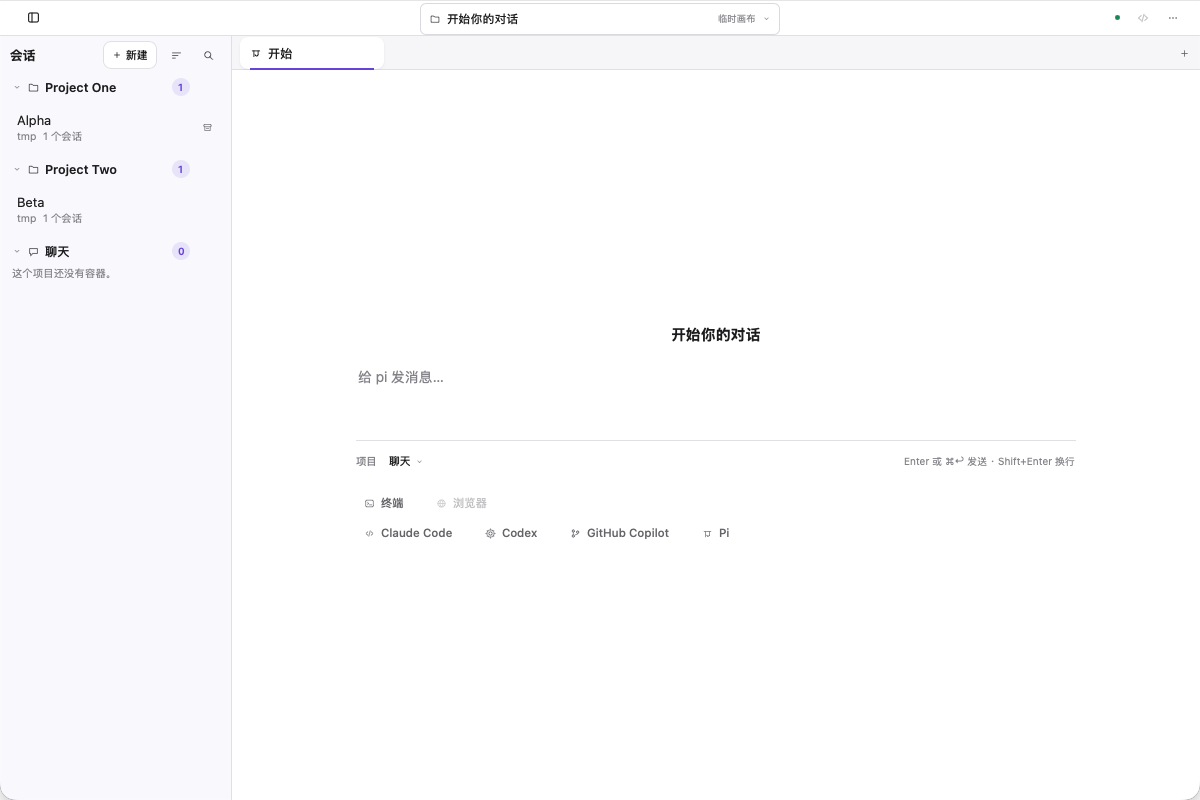
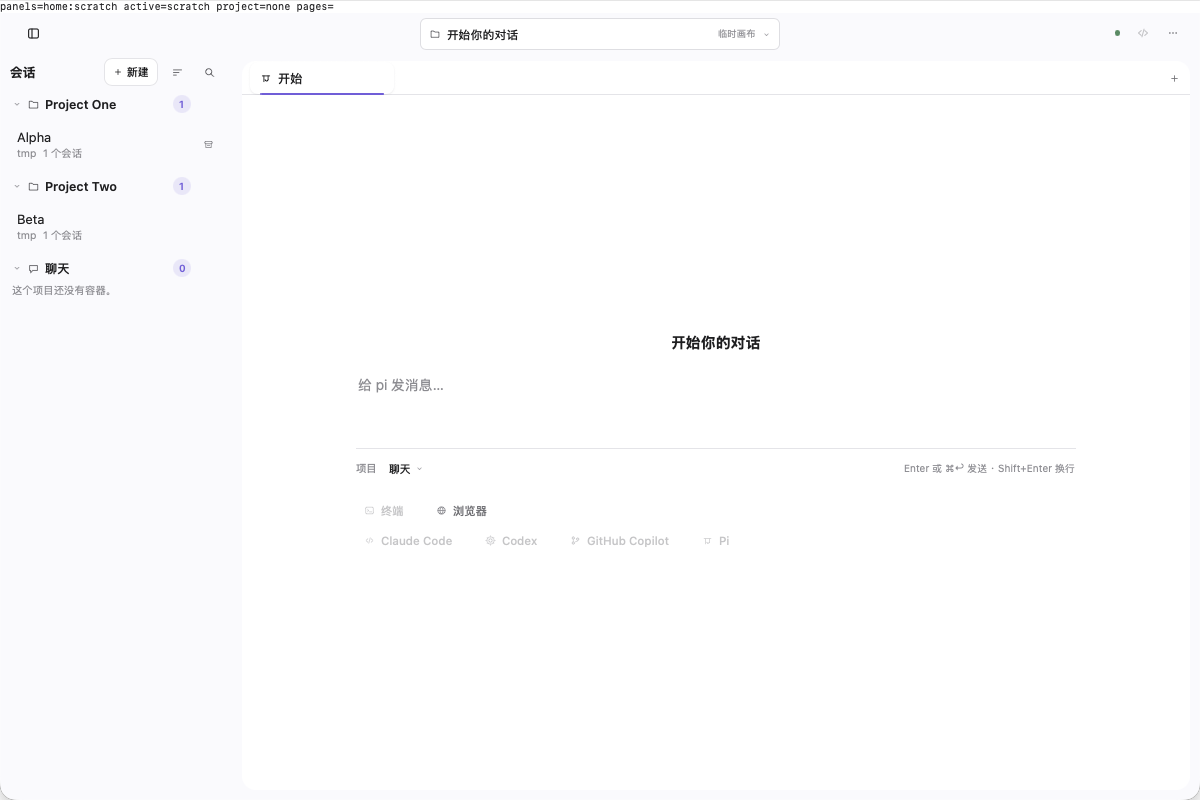
feat(ui): the shell is one layer with a white content card
The window drew three independent bars, each with its own background and a
divider between them. It is now one `sidebar`-colored layer: a 40pt
titlebar with no divider, a sidebar without its right border, and the
content as a white card — radius 14, clipped corners, 8–10pt of the window
showing on all sides — whose tab bar merges into the card and whose
composer sits inside it (24 left/right, 16 below). The `+` overlay now
measures the card, so its geometry ignores the margins.

diff --git a/shell.tsx b/shell.tsx
@@ -113,7 +113,7 @@ const PHASE_TINT: Record<EnginePhase, string> = {
 };
 
 /** The titlebar's height: compact, with the traffic lights still centered. */
-const TITLEBAR_HEIGHT = 36;
+const TITLEBAR_HEIGHT = 40;
 /** The picker trigger and its dropdown share this width (Steer's 360). */
 const PICKER_WIDTH = 360;
 /** The picker is the titlebar's main control, so it nearly fills the row. */
@@ -444,7 +444,7 @@ function SearchSection(props: { label: string; count: number }) {
 /** The sidebar: header actions, the filter, and project → container. */
 function Sidebar() {
   return (
-    <View class="bg-sidebar border-r border-line" style={{ width: 232, flexShrink: 0 }}>
+    <View class="bg-sidebar" style={{ width: 232, flexShrink: 0 }}>
       <View style={{ flexDirection: "row", alignItems: "center", gap: 6, paddingHorizontal: 10, paddingTop: 8, paddingBottom: 6, height: 36 }}>
         <Text style={{ fontSize: 13, fontWeight: "700", color: token("foreground"), flexShrink: 0 }}>{t(K.sidebar.title)}</Text>
         <View style={{ flex: 1 }} />
@@ -750,8 +750,9 @@ function TitleBar() {
     else if (result.kind === "failed") note(t(K.titlebar.openFailed, { error: result.error }));
   };
   return (
+    // Same material as the sidebar: the window is one layer, no divider.
     <View
-      class="flex-row items-center border-b border-line bg-background"
+      class="flex-row items-center"
       style={{ height: TITLEBAR_HEIGHT, flexShrink: 0 }}
       desktop={{ windowDrag: true }}
     >
@@ -877,10 +878,25 @@ function terminalPanels(): Array<{ id: string; closable: boolean }> {
 function Canvas() {
   const size = signal({ width: 0, height: 0 });
   const measured = () => size();
+  // The card is the content's only container (DESIGN §3.1): everything the
+  // canvas draws — tab bars, panels, the composer — lives inside it, and
+  // its corners clip. The `+` overlay measures the card, so its geometry
+  // stays the DockArea's own.
   return (
     <View
-      class="flex-1 bg-background"
-      style={{ flexDirection: "column", minWidth: 0, minHeight: 0, position: "relative" }}
+      class="flex-1 overflow-hidden bg-card"
+      style={{
+        flexDirection: "column",
+        minWidth: 0,
+        minHeight: 0,
+        position: "relative",
+        borderRadius: 14,
+        // 8–10pt of the window's `sidebar` showing on all sides (DESIGN §3).
+        marginTop: 8,
+        marginRight: 10,
+        marginBottom: 10,
+        marginLeft: 10,
+      }}
       onLayout={({ bounds }) => {
         const { width, height } = bounds.size;
         if (measured().width !== width || measured().height !== height) size.set({ width, height });
@@ -895,7 +911,7 @@ function Canvas() {
         onZoomChange={({ panel }) => setZoom(panel)}
         onPanelActiveChange={({ panel, active }) => onPanelActive(panel, active)}
         groupClass="flex-1 bg-background overflow-hidden"
-        tabBarClass="flex-row items-end gap-0.5 border-b border-line bg-inset px-2"
+        tabBarClass="flex-row items-end gap-0.5 border-b border-line bg-card px-2"
         // The right strip is the `+`'s: a tab never ends under the overlay.
         tabBarStyle={{ height: 34, paddingRight: 30 }}
         tabClass="group focus-visible:outline-2 focus-visible:outline-ring focus-visible:outline-offset-[-1px] active:opacity-80"
@@ -949,7 +965,7 @@ function Canvas() {
         renderEmpty={() => (
           // A canvas with no sheet: the Hero is one click away, and it is a
           // sheet like any other (closing it leaves this state).
-          <View class="flex-1 items-center justify-center gap-2 bg-background">
+          <View class="flex-1 items-center justify-center gap-2 bg-card">
             <Text class="text-sm font-semibold text-foreground">{t(K.canvas.emptyTitle)}</Text>
             <Text class="text-xs text-muted-foreground">{t(K.canvas.emptyNote)}</Text>
             <View
@@ -987,7 +1003,9 @@ export function Workbench() {
   // a project row's `+` reach the same canvas.
   keymap.bind("mod+n", () => openHero(null));
   return (
-    <View class="flex-1 bg-background" style={{ flexDirection: "column", minHeight: 0 }}>
+    // S3's one-layer shell: the whole window is `sidebar`; the content is
+    // the card the Canvas draws (DESIGN §3).
+    <View class="flex-1 bg-sidebar" style={{ flexDirection: "column", minHeight: 0 }}>
       <TitleBar />
       <View style={{ flex: 1, flexDirection: "row", minHeight: 0 }}>
         <If when={sidebarVisible()}>

diff --git a/chat-view.tsx b/chat-view.tsx
@@ -234,7 +234,7 @@ function Hero(props: { id: string }) {
     <View
       testID="session-hero"
       class="flex-1 items-center justify-center bg-background"
-      style={{ paddingHorizontal: 24, paddingBottom: 24 }}
+      style={{ paddingHorizontal: 24, paddingBottom: 16 }}
     >
       <View style={{ width: "100%", maxWidth: 720, gap: 20 }}>
         <Text class="text-[16px] font-black text-foreground" style={{ textAlign: "center" }}>

diff --git a/docs/decisions.md b/docs/decisions.md
@@ -142,9 +142,10 @@
 | Q85 | 容器标题（S2 细则） | 标题 = **存活的最早创建 sheet** 的 `title()`（`sheetOrder` 记创建序，`noteSheetOpened` 在打开处记账、`setLayout` 只剪枝、`activateCanvas` 播种；不持久化）。session=会话名，**未命名的新会话不参与命名**（id 前缀撞名）；terminal=OSC 标题；webview=页面 title；Hero 不参与；无可命名 sheet 时回退 captain 名/终端标题/目录。`containerTitle` 移入 `titles.ts`（sheet 注册表在容器 store 之上） | `containers.ts`、`titles.ts`、`dock.ts`；arch §4.3；evidence/s21-5-container-title.md |
 | Q86 | 语言跟随系统 | 顶栏语言按钮删除（连同 `toggleShellLocale` 与 `app.titlebar.language` 键）；`App` 首帧前 `followSystemLocale()` 读 nsh 的 `locale()`，`zh* → zh-CN` 其余 → `en`（Q71）；运行中不跟随，重启生效。测试：映射单测 + `setLocale` 扮演系统的两条 fixture UI 测试；打开真 App 的用例用 `copy(zh,en)` 断言当前文案（`copy.ts` 读同一个系统 locale），fixture 挂载的用例仍是 zh-CN 模块默认 | `i18n.ts`、`App.tsx`、`shell.tsx`、`copy.ts`、`fixtures/locale-*.tsx`；evidence/s21-6-system-locale.md |
 | Q87 | 无 sheet 自动归档的路径 | 每个 tab 由 shell 画自己的 ×（`tab-close-{panel}`，最后一个也可关——路径可达的前提）；`setLayout` 发现容器画布 `sheetCount === 0` 时自动 `archiveContainer(id)`（切到引擎给的下一个容器或 scratch、结束终端/LSP 都在归档里）；侧栏退场用 `LayoutAnimation.configureNext(create(180))`（nsh style 不支持 height 过渡，原生删除动画播放行淡出与其余行上移）。external 容器进程退出即归档 | `shell.tsx`、`containers.ts`；arch §5.4、DESIGN §3.8；evidence/s21-7-auto-archive.md |
+| Q88 | S3 外壳的几何落地 | Workbench 根与顶栏、侧栏同为 `sidebar`（一层）；顶栏 40pt 无分隔线；侧栏 232 无右边框；内容卡片 `bg-card` radius 14 `overflow hidden`，四周 8–10pt（上 8 其余 10）；卡内页签条 `bg-card` + 底部 hairline（活动页签靠 shadowCard + primary 下划线）；composer 卡内左右 24 底部 16。`TabBarPlus` 测量移到卡片，`+` 几何不受边距影响 | `shell.tsx`、`chat-view.tsx`；DESIGN §3/§3.1；evidence/s22-8-shell.md |
 
 ## 决策编号说明
 
-- Q1–Q87 覆盖全部已讨论的问题，**无未决项**。曾悬空的横切面已在 architecture 落成决策：扩展宿主契约与 project trust（§4.5）、引擎监督与重连（§3.3/§5.4，M2）、文件读写归属（Q56/§3.6 的 `zu/fs`）、git 执行与根/路径边界（Q58/§3.6 的 `zu/git`）、协议版本与幂等（§3.3）、归档可达性（Q34）、模型选择入口（§3.5 的写回规则）、i18n 键表（M2）、浏览器的能力/链接策略与非可见降级（Q61/Q62/§4.3）、LSP 的传输/全文同步/语言映射（Q64/§3.6）、单实例锁与关窗/托盘/通知策略（Q65/Q66/§4.6）、更新源缺失时的诚实状态与发布配置（Q67/§3.7）、模型注册表的归属与「无模型」的表达（Q81）、容器内终端资源与 Pi TUI（Q82）、scratch 的页面归属与铸容器语义（Q83）、动作可用性矩阵（Q84）、容器标题的 S2 细则（Q85）、语言跟随系统（Q86）、无 sheet 自动归档的路径（Q87）。
+- Q1–Q88 覆盖全部已讨论的问题，**无未决项**。曾悬空的横切面已在 architecture 落成决策：扩展宿主契约与 project trust（§4.5）、引擎监督与重连（§3.3/§5.4，M2）、文件读写归属（Q56/§3.6 的 `zu/fs`）、git 执行与根/路径边界（Q58/§3.6 的 `zu/git`）、协议版本与幂等（§3.3）、归档可达性（Q34）、模型选择入口（§3.5 的写回规则）、i18n 键表（M2）、浏览器的能力/链接策略与非可见降级（Q61/Q62/§4.3）、LSP 的传输/全文同步/语言映射（Q64/§3.6）、单实例锁与关窗/托盘/通知策略（Q65/Q66/§4.6）、更新源缺失时的诚实状态与发布配置（Q67/§3.7）、模型注册表的归属与「无模型」的表达（Q81）、容器内终端资源与 Pi TUI（Q82）、scratch 的页面归属与铸容器语义（Q83）、动作可用性矩阵（Q84）、容器标题的 S2 细则（Q85）、语言跟随系统（Q86）、无 sheet 自动归档的路径（Q87）、S3 外壳的几何落地（Q88）。
 - 原 engine/ui/domain 三份文档里的 E/U 编号已废弃，统一并入本表。
 - 已完成的和下一批工作见 [plan.md](plan.md)；条件性里程碑（M-tty / M-arch / M-web）的触发条件也记在那里。

diff --git a/docs/plan.md b/docs/plan.md
@@ -14,8 +14,8 @@
 [evidence/s21-5-container-title.md](evidence/s21-5-container-title.md)、
 [evidence/s21-6-system-locale.md](evidence/s21-6-system-locale.md)、
 [evidence/s21-7-auto-archive.md](evidence/s21-7-auto-archive.md) 与 `docs/evidence/ui-s2-*.png`。
-**下一个动作是 §2.2 的第 8 项（一体化外壳 S3）**（§2.1 全部 1–7 项与 F1–F3 已完成，证据
-[evidence/s211-f2f3-container-terminals.md](evidence/s211-f2f3-container-terminals.md)、[evidence/s21-3-scratch.md](evidence/s21-3-scratch.md)、[evidence/s21-4-action-matrix.md](evidence/s21-4-action-matrix.md)、[evidence/s21-5-container-title.md](evidence/s21-5-container-title.md)、[evidence/s21-6-system-locale.md](evidence/s21-6-system-locale.md)、[evidence/s21-7-auto-archive.md](evidence/s21-7-auto-archive.md)）。
+**下一个动作是 §2.2 的第 9 项（侧栏可拖拽）**（第 8 项已完成，证据
+[evidence/s211-f2f3-container-terminals.md](evidence/s211-f2f3-container-terminals.md)、[evidence/s21-3-scratch.md](evidence/s21-3-scratch.md)、[evidence/s21-4-action-matrix.md](evidence/s21-4-action-matrix.md)、[evidence/s21-5-container-title.md](evidence/s21-5-container-title.md)、[evidence/s21-6-system-locale.md](evidence/s21-6-system-locale.md)、[evidence/s21-7-auto-archive.md](evidence/s21-7-auto-archive.md)、[evidence/s22-8-shell.md](evidence/s22-8-shell.md)）。
 开工前读：本文件 §2 → [architecture.md](architecture.md) §4.2/§4.3/§5.4 → [DESIGN.md](DESIGN.md) §3 →
 [evidence/apis-verified.md](evidence/apis-verified.md)。
 > 架构见 [architecture.md](architecture.md)，视觉规格见 [DESIGN.md](DESIGN.md)，决策台账见 [decisions.md](decisions.md)。
@@ -29,7 +29,7 @@
 | M-0 | P0 可用性：模型注册与无模型界面 | ✅ | §2.0 |
 | M-A | M0–M12 已交付 | ✅ | §1 |
 | M-B | Hero 与画布结构（S1 + S2） | ✅ 1–7 与 F1–F3 全部完成 | §2.1、§2.1.1 |
-| M-C | 一体化外壳与组合（S3） | ⬜ | §2.2 |
+| M-C | 一体化外壳与组合（S3） | 🔁 第 8 项完成；9–13 待做 | §2.2 |
 | M-D | 细节（图标、拖拽、字体） | ⬜ | §2.3 |
 | M-E | 独立修复 | ⏸ B2 挂起 | §2.4 |
 | M-F | 代码仓库整洁化（并行轨道） | ⬜ | §5 |
@@ -139,6 +139,12 @@
 > （transport 收到 archive、画布到 scratch Hero、行消失）+ `containers.test.ts`
 > 轮询 `container.list` 的 `archived: true` + `external.ui` 的退出用例。
 > 证据 [evidence/s21-7-auto-archive.md](evidence/s21-7-auto-archive.md)。
+
+> **第 8 项已完成（2026-11-12）**：S3 一体化外壳——全窗一层 `sidebar` 底；顶栏 40pt 无分隔线；侧栏无右边框；
+> 内容区是 `card` 白卡（radius 14、四周 8–10pt、`overflow hidden`），页签条融在卡内（`bg-card` + hairline，
+> 活动页签靠 shadowCard + primary 下划线区分）；composer 在卡内左右 24、底部 16。`TabBarPlus` 的测量基准
+> 移到卡片，`+` 几何不受边距影响。截图 `docs/evidence/ui-s2-scratch-hero.png` 已用新壳重拍。
+> 证据 [evidence/s22-8-shell.md](evidence/s22-8-shell.md)。
 
 > **F1 已完成（2026-11-11，`4293eb7`）**：`replaceSheet()` 把目标 sheet 放进 Hero 的原槽位并移除 Hero；容器 Hero 的
 > 浏览器、终端/TUI（F2）与 Pi（F3）动作、以及 composer 提交都走它。证据

diff --git a/docs/evidence/s22-8-shell.md b/docs/evidence/s22-8-shell.md
@@ -1,0 +1,46 @@
+# §2.2-8：一体化外壳（S3）
+
+日期：2026-11-12。验收对象是 [plan.md](../plan.md) §2.2 的第 8 项与
+[DESIGN.md](../DESIGN.md) §3。
+
+## 1. 交付（对照 DESIGN §3 的表）
+
+| 区域 | 之前 | 现在 |
+|---|---|---|
+| 窗口底 | `background` | 全窗 `sidebar`（Workbench 根、顶栏、侧栏同材质，卡片四周的空隙都是它） |
+| 顶栏 | 36pt + `border-b border-line` + `bg-background` | **40pt、无分隔线**、无独立底色；左开关、右 VS Code/工具不变 |
+| 侧栏 | 232pt + `border-r border-line` | 232pt、**无右边框**；与卡片之间 10pt |
+| 内容卡片 | 无卡片（DockArea 直接铺 `bg-background`） | **`card` 白卡，radius 14，`overflow hidden`**，四周 8–10pt（上 8、其余 10）；tab bar、panels、composer 全在卡内 |
+| 卡内页签条 | `bg-inset` | **`bg-card` + 底部 hairline**（融入卡片；活动页签靠 `shadowCard` + 2pt `primary` 下划线区分，正是 §3.2 的定义） |
+| Composer | 卡片内左右 24、底部 24 | 左右 24、**底部 16**（`chat-view.tsx` 的 composer wrapper） |
+
+几何实现：卡片的 `onLayout` 就是 `TabBarPlus` 的测量基准——`+` 的几何仍是
+DockArea 自己的坐标，卡片边距不造成偏移（`tab-plus.test.ts` 的纯函数不变）。
+
+## 2. 验收证据
+
+**截图**（`--target macos`，fixture 真窗）：
+`docs/evidence/ui-s2-scratch-hero.png` 已用新壳重拍——窗口一层 `sidebar` 底、
+40pt 顶栏无分隔线、侧栏无边框、白卡 radius 14 四周留缝、页签条融在卡内。
+与 ZCode 截图并排的底色/圆角/间距/字号对齐以此为凭（浅色主题）。
+
+**测试**：252 条全量绿（`nsh test .` 连跑两次；`engine.test.ts` 的 steer 用例
+偶发依赖供应商首 token，与外壳无关，失败信息自带会话行与错误）。
+`tab-plus.test.ts`（`+` 的几何）、`containers.ui`（切换/缩放）、
+`auto-archive.ui`（空态画布改 `bg-card` 后的归档路径）不受影响。
+
+## 3. 门禁
+
+| 门禁 | 结果 |
+|---|---|
+| `nsh check .` | ✓ |
+| `cargo check --all-targets` | ✓ |
+| `nsh test .` | ✓ 252/252 |
+| `script/bundle-mac.sh` | ✓（Zu.app 133M / Zu.dmg 52M） |
+
+## 4. 已知边界
+
+- 深色模式下卡内 panel 仍各画各的底（`bg-background`/`bg-card` 混用）；浅色里
+  两者同为白色不可见。统一卡内表面是后续视觉批次的事（§2.3 的字体/图标之后）。
+- 截图是 fixture 真窗（顶部多一行 fixture 探测文本），不是打包后的产品窗口。
+- 红绿灯的对齐（直径 12、间距 8、左边距 16）是第 12 项。

diff --git a/README.md b/README.md
@@ -10,7 +10,7 @@ coding agent 的桌面端，TSX 写在 [NSH](https://nsh.dev) 上。工作台形
 终端、编辑器、Git、浏览器、LSP、常驻与更新）。Casing II：**§2.1-1（`a58e0ad`）、§2.1-2（`bcd4004`）、
 §2.1.1 F1（`4293eb7`）已提交**；**§2.0 的 P0-1/P0-2 已完成**（引擎级模型注册表、无模型界面），
 **§2.1.1 F2/F3 已完成**（容器内终端资源、原生 Pi TUI），**§2.1-3 已完成**（scratch 画布的页面与铸容器）、**§2.1-4 已完成**（动作可用性矩阵）、**§2.1-5 已完成**（容器标题 S2）、**§2.1-6 已完成**（语言跟随系统）、**§2.1-7 已完成**（无 sheet 自动归档）；
-**§2.1 全部完成**，下一批是 §2.2（外壳与组合）。
+**§2.1 全部完成**；§2.2 的第 8 项（一体化外壳 S3）已完成，9–13 待做。
 门禁：`nsh check` ✓、`cargo check --all-targets` ✓、`nsh test` 252/252 ✓、`script/bundle-mac.sh` ✓。证据见
 [docs/evidence/s1-hero-sheet.md](docs/evidence/s1-hero-sheet.md)、
 [docs/evidence/s21-2-switch-hydrate.md](docs/evidence/s21-2-switch-hydrate.md)、
@@ -21,8 +21,9 @@ coding agent 的桌面端，TSX 写在 [NSH](https://nsh.dev) 上。工作台形
 [docs/evidence/s21-4-action-matrix.md](docs/evidence/s21-4-action-matrix.md)、
 [docs/evidence/s21-5-container-title.md](docs/evidence/s21-5-container-title.md)、
 [docs/evidence/s21-6-system-locale.md](docs/evidence/s21-6-system-locale.md)、
-[docs/evidence/s21-7-auto-archive.md](docs/evidence/s21-7-auto-archive.md) 与 `docs/evidence/ui-s2-*.png`。
-下一项是 [§2.2 第 8 项（一体化外壳 S3）](docs/plan.md)。2026-11-11 的计划调整：移除顶栏 picker、模型问题升为 P0、
+[docs/evidence/s21-7-auto-archive.md](docs/evidence/s21-7-auto-archive.md)、
+[docs/evidence/s22-8-shell.md](docs/evidence/s22-8-shell.md) 与 `docs/evidence/ui-s2-*.png`。
+下一项是 [§2.2 第 9 项（侧栏可拖拽）](docs/plan.md)。2026-11-11 的计划调整：移除顶栏 picker、模型问题升为 P0、
 Composer 接入 pi 斜杆操作、新增代码仓库整洁化并行轨道（[plan §5](docs/plan.md)）。
 
 ## 文档
